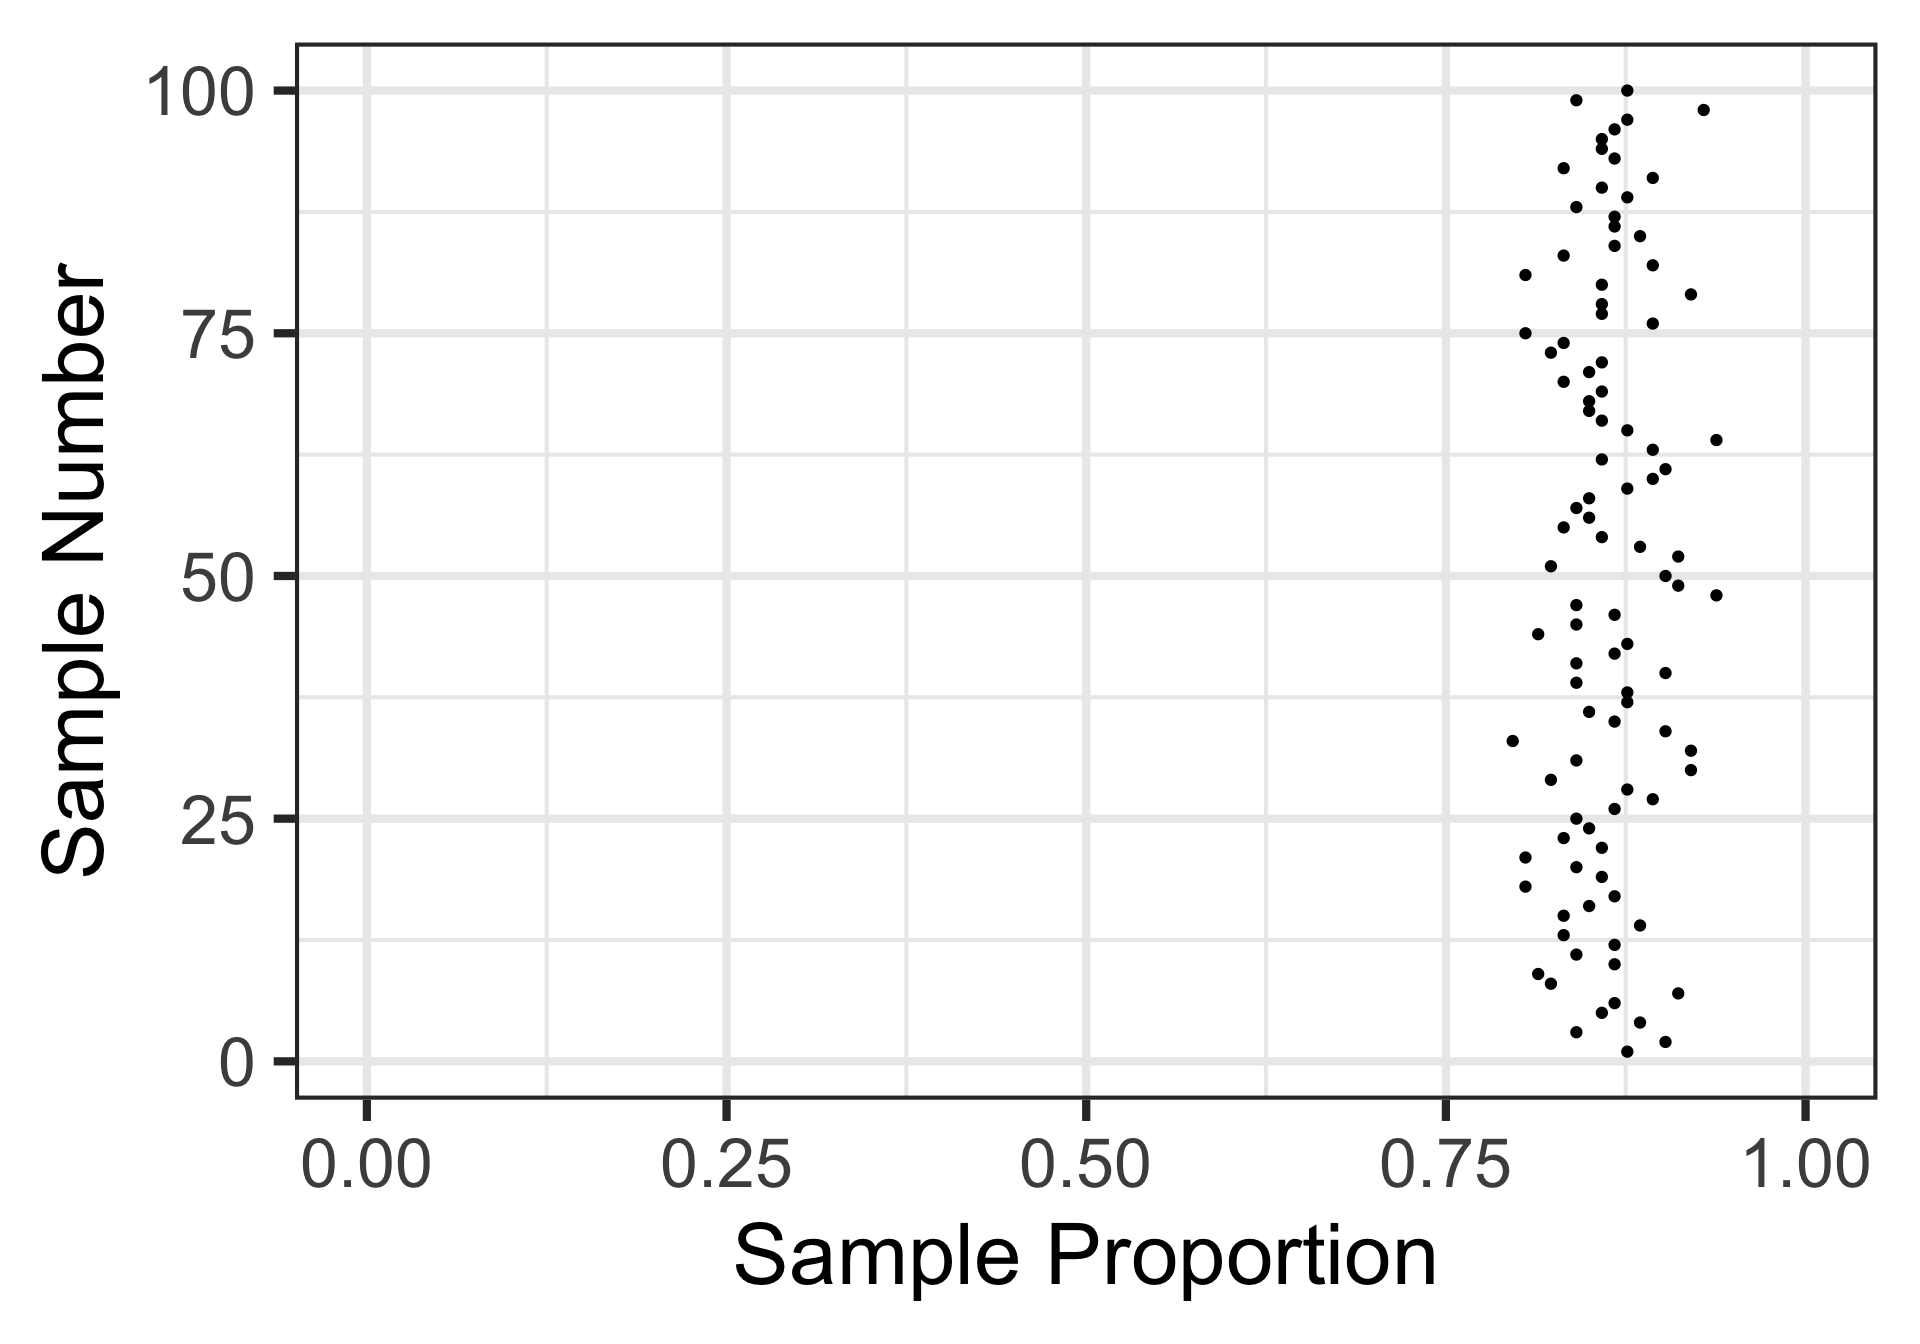
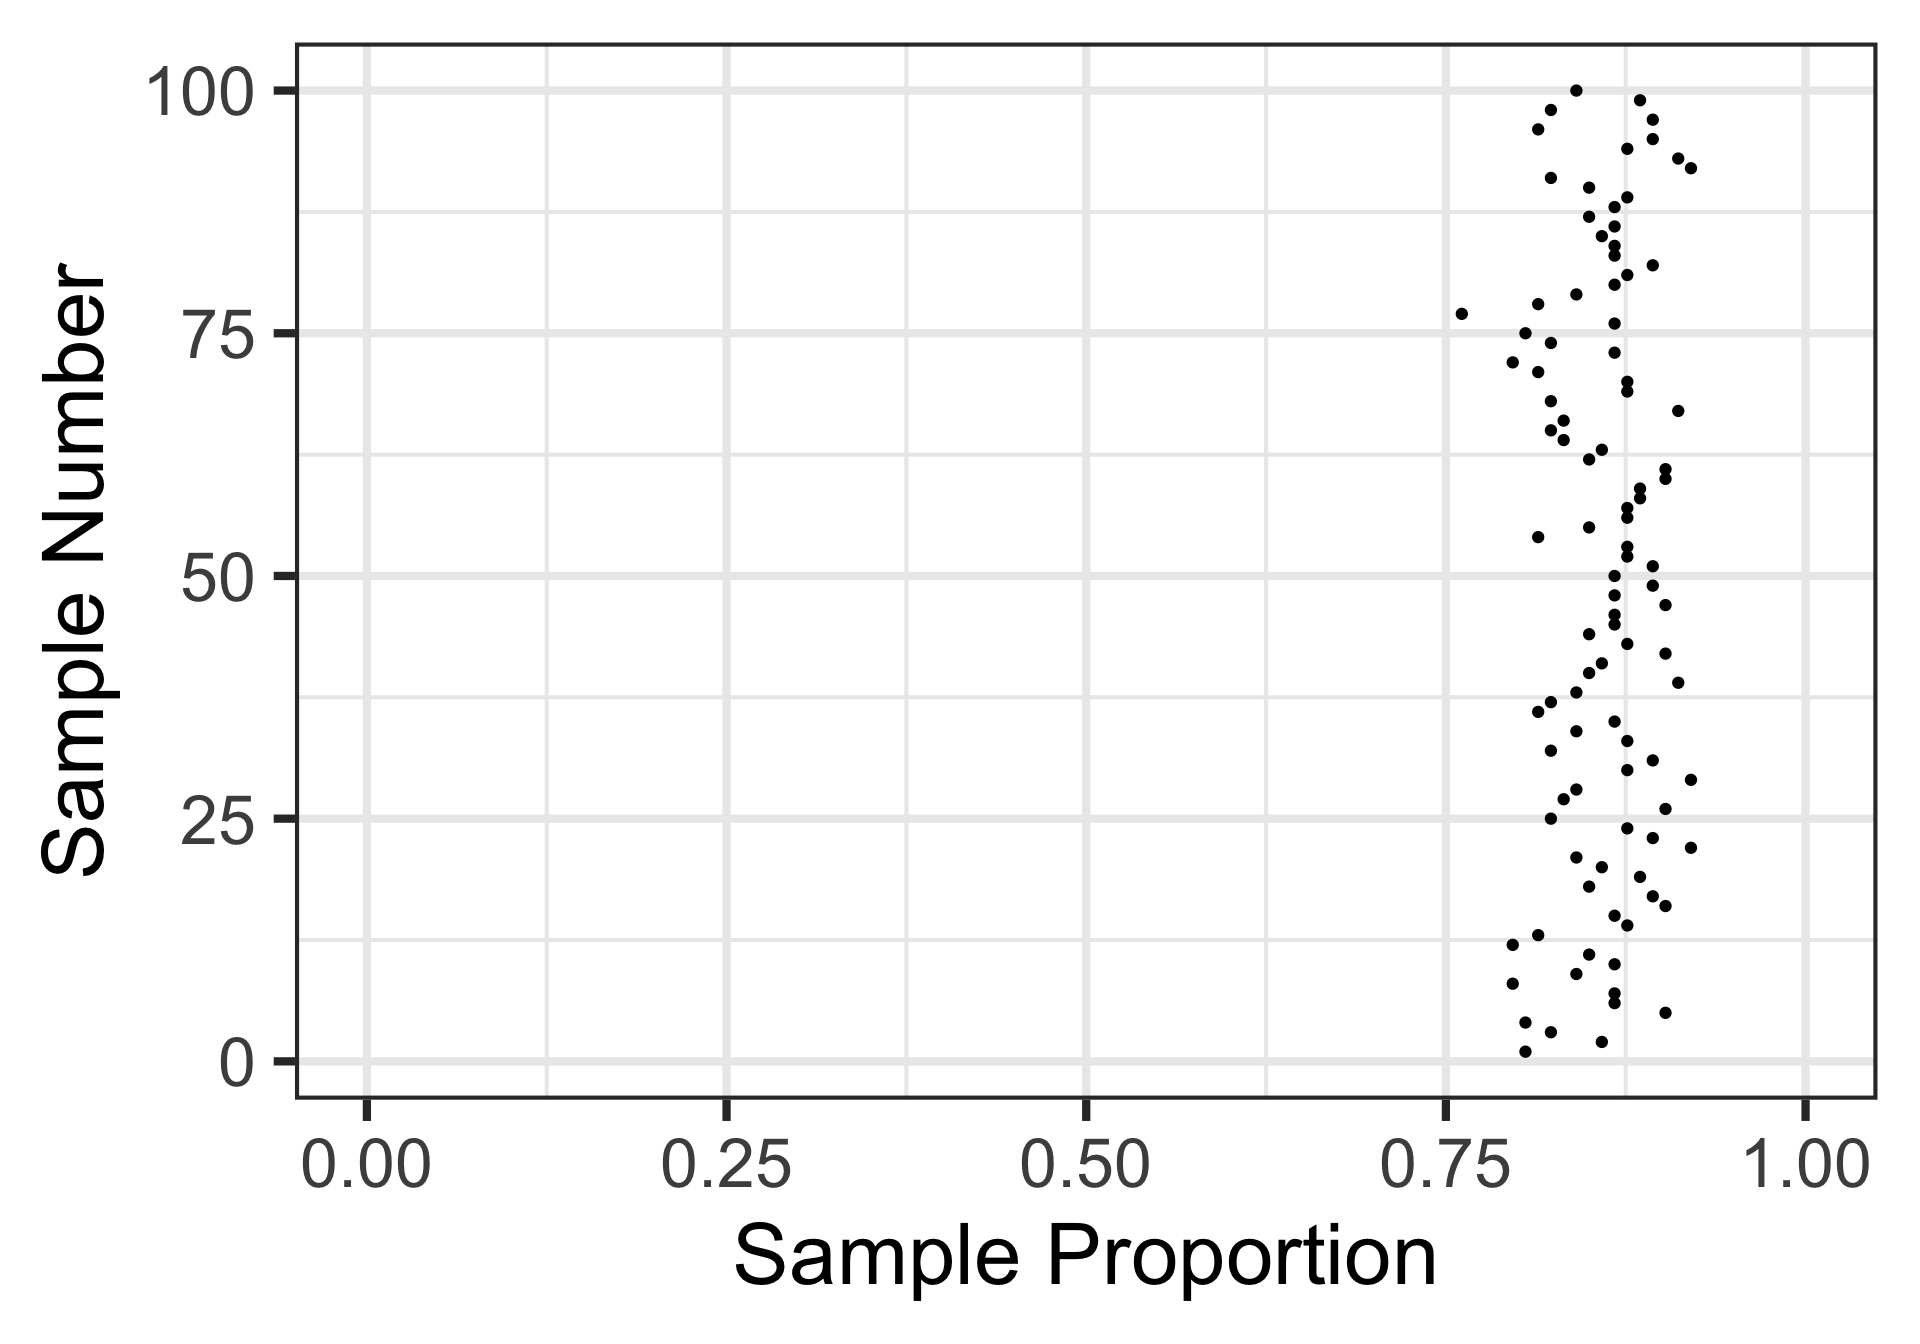
categorical slide updates

Changed region(s): [[0.7812, 0.4375, 0.875, 0.7812], [0.7812, 0.0625, 0.875, 0.4375], [0.7812, 0.5312, 0.8125, 0.5625]]

diff --git a/CategoricalInference_Slides.html b/CategoricalInference_Slides.html
@@ -397,8 +397,8 @@ code.sourceCode {
 <div class="fragment">
 <div class="cell">
 <div class="cell-output cell-output-stdout">
-<pre><code> [1] "In-Favor" "In-Favor" "Against"  "In-Favor" "Against"  "In-Favor"
- [7] "In-Favor" "In-Favor" "In-Favor" "In-Favor" "In-Favor" "In-Favor"
+<pre><code> [1] "In-Favor" "Against"  "In-Favor" "In-Favor" "In-Favor" "In-Favor"
+ [7] "Against"  "In-Favor" "In-Favor" "In-Favor" "In-Favor" "In-Favor"
 [13] "In-Favor" "In-Favor" "In-Favor" "In-Favor" "In-Favor"</code></pre>
 </div>
 </div>
@@ -421,14 +421,14 @@ code.sourceCode {
 <div class="fragment">
 <div class="cell">
 <div class="cell-output cell-output-stdout">
-<pre><code> [1] "In-Favor" "In-Favor" "In-Favor" "In-Favor" "In-Favor" "Against" 
- [7] "Against"  "In-Favor" "In-Favor" "In-Favor" "Against"  "Against" 
-[13] "Against"  "In-Favor" "In-Favor" "In-Favor" "Against" </code></pre>
+<pre><code> [1] "In-Favor" "In-Favor" "In-Favor" "In-Favor" "In-Favor" "In-Favor"
+ [7] "In-Favor" "In-Favor" "Against"  "In-Favor" "In-Favor" "In-Favor"
+[13] "In-Favor" "In-Favor" "Against"  "In-Favor" "Against" </code></pre>
 </div>
 </div>
 </div>
 <div class="fragment">
-<p>The estimated proportion from this sample is 0.647</p>
+<p>The estimated proportion from this sample is 0.824</p>
 </div>
 <div class="fragment">
 <p>Okay, so what can the results from a random sample actually tell us?</p>
@@ -541,7 +541,7 @@ code.sourceCode {
 <section id="sampling-variation-and-sampling-error-summary-so-far" class="slide level2">
 <h2>Sampling Variation and Sampling Error (Summary, So Far…)</h2>
 <div class="fragment">
-<p>Each sampled provides us with a <em>summary statistic</em> (a sample proportion) which serves as an estimate for the population proportion.</p>
+<p>Each sample provides us with a <em>summary statistic</em> (a sample proportion) which serves as an estimate for the population proportion.</p>
 </div>
 <div class="fragment">
 <p>Each sample results in a different <em>summary statistic</em> – this is referred to as <em>sampling variation</em></p>
@@ -620,7 +620,7 @@ code.sourceCode {
 <section id="sampling-variation-and-sampling-error-8" class="slide level2">
 <h2>Sampling Variation and Sampling Error</h2>
 <div class="fragment">
-<p>Each sampled provides us with a <em>summary statistic</em> (a sample proportion) which serves as an estimate for the population proportion.</p>
+<p>Each sample provides us with a <em>summary statistic</em> (a sample proportion) which serves as an estimate for the population proportion.</p>
 </div>
 <div class="fragment">
 <p>Each sample results in a different <em>summary statistic</em> – this is referred to as <em>sampling variation</em>.</p>
